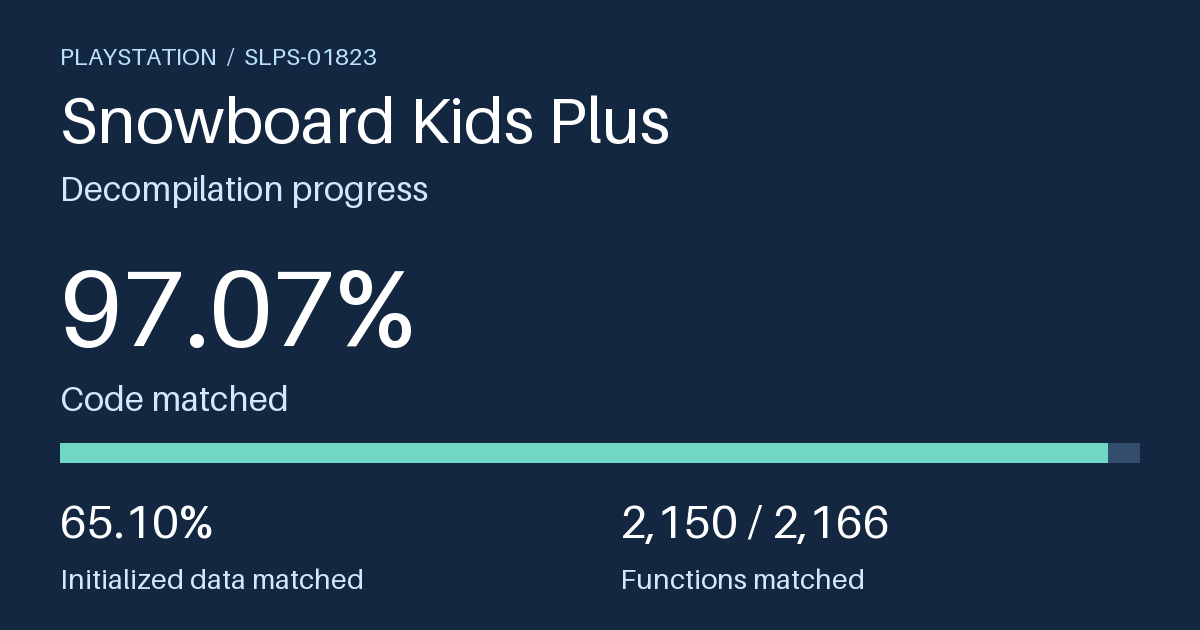
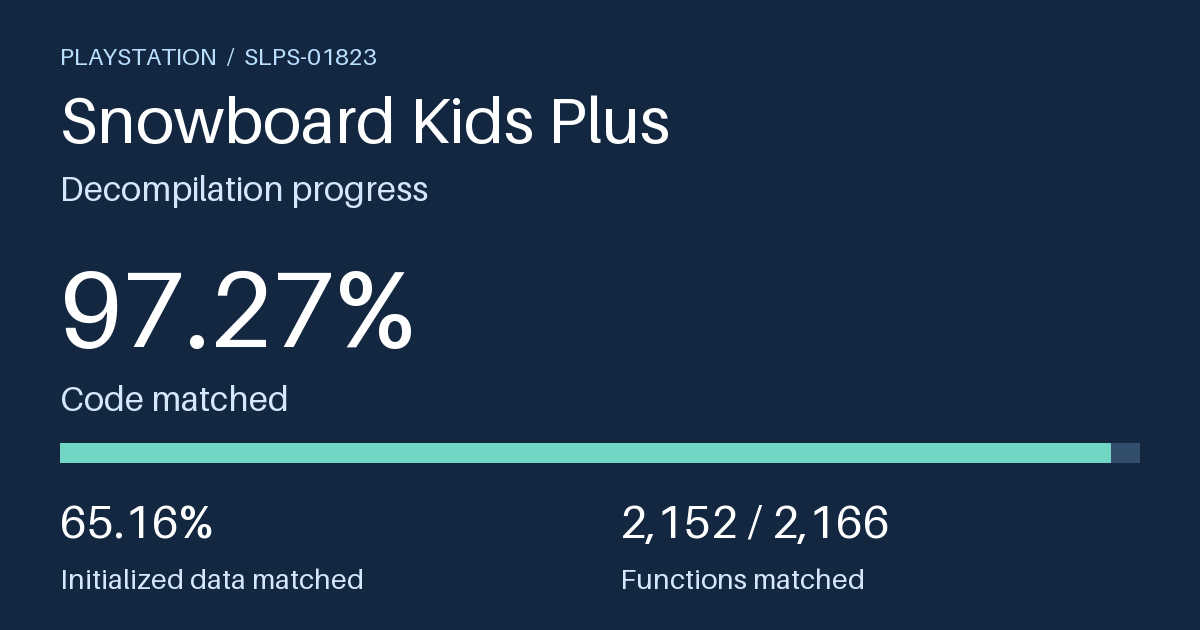
Update decompilation progress

diff --git a/docs/index.html b/docs/index.html
@@ -15,10 +15,10 @@
   <meta property="og:image:type" content="image/png">
   <meta property="og:image:width" content="1200">
   <meta property="og:image:height" content="630">
-  <meta property="og:image:alt" content="Snowboard Kids Plus decompilation: 97.07% code matched, 65.10% initialized data matched, and 2,150 of 2,166 functions matched.">
+  <meta property="og:image:alt" content="Snowboard Kids Plus decompilation: 97.27% code matched, 65.16% initialized data matched, and 2,152 of 2,166 functions matched.">
   <meta name="twitter:card" content="summary_large_image">
   <meta name="twitter:image" content="https://chrislewis.au/snowboardkidsplus-decomp/assets/progress-preview.png">
-  <meta name="twitter:image:alt" content="Snowboard Kids Plus decompilation: 97.07% code matched, 65.10% initialized data matched, and 2,150 of 2,166 functions matched.">
+  <meta name="twitter:image:alt" content="Snowboard Kids Plus decompilation: 97.27% code matched, 65.16% initialized data matched, and 2,152 of 2,166 functions matched.">
   <link rel="stylesheet" href="assets/progress.css">
   <script src="assets/progress.js" defer></script>
 </head>
@@ -41,21 +41,21 @@
     <section class="overview" aria-label="Verified build progress">
       <article class="metric">
         <h2>Code matched</h2>
-        <strong>97.07%</strong>
-        <meter min="0" max="802532" value="779052" aria-hidden="true"></meter>
-        <p>779,052 / 802,532 bytes · Game code 96.15%</p>
+        <strong>97.27%</strong>
+        <meter min="0" max="802532" value="780656" aria-hidden="true"></meter>
+        <p>780,656 / 802,532 bytes · Game code 96.41%</p>
       </article>
       <article class="metric">
         <h2>Initialized data</h2>
-        <strong>65.10%</strong>
-        <meter min="0" max="420772" value="273928" aria-hidden="true"></meter>
-        <p>273,928 / 420,772 bytes matched</p>
+        <strong>65.16%</strong>
+        <meter min="0" max="420772" value="274188" aria-hidden="true"></meter>
+        <p>274,188 / 420,772 bytes matched</p>
       </article>
       <article class="metric">
         <h2>Functions matched</h2>
-        <strong>99.26%</strong>
-        <meter min="0" max="2166" value="2150" aria-hidden="true"></meter>
-        <p>2,150 / 2,166 functions</p>
+        <strong>99.35%</strong>
+        <meter min="0" max="2166" value="2152" aria-hidden="true"></meter>
+        <p>2,152 / 2,166 functions</p>
       </article>
     </section>
     <section class="queue" id="functions" aria-labelledby="queue-title">
@@ -64,7 +64,7 @@
           <h2 id="queue-title">Remaining functions</h2>
           <p>Ranked by best recorded instruction match, then by lower complexity.</p>
         </div>
-        <p id="result-count" class="count" role="status">16 functions</p>
+        <p id="result-count" class="count" role="status">14 functions</p>
       </div>
       <div class="controls" hidden>
         <label>Search functions <input type="search" id="search" placeholder="Name, source file, or address"></label>
@@ -85,16 +85,14 @@
           <tr data-size="1248"><td class="rank">4</td><th scope="row"><code>func_8004E718</code><a class="unit" href="https://github.com/cdlewis/snowboardkidsplus-decomp/blob/main/src/graphics/course_rendering.c#L440">src/graphics/course_rendering.c</a></th><td class="address"><code>0x8004E718</code></td><td class="size">1,248</td><td class="score"><div class="match"><meter min="0" max="1" value="0.9903846153846154" aria-hidden="true"></meter><span><a href="https://github.com/cdlewis/snowboardkidsplus-decomp/blob/main/src/graphics/course_rendering.c#L440">99.04%</a></span></div></td></tr>
           <tr data-size="888"><td class="rank">5</td><th scope="row"><code>func_8004EBF8</code><a class="unit" href="https://github.com/cdlewis/snowboardkidsplus-decomp/blob/main/src/graphics/course_rendering.c#L507">src/graphics/course_rendering.c</a></th><td class="address"><code>0x8004EBF8</code></td><td class="size">888</td><td class="score"><div class="match"><meter min="0" max="1" value="0.9864864864864865" aria-hidden="true"></meter><span><a href="https://github.com/cdlewis/snowboardkidsplus-decomp/blob/main/src/graphics/course_rendering.c#L507">98.65%</a></span></div></td></tr>
           <tr data-size="2964"><td class="rank">6</td><th scope="row"><code>func_8006479C</code><a class="unit" href="https://github.com/cdlewis/snowboardkidsplus-decomp/blob/main/src/race/effects/player_effects.c#L1639">src/race/effects/player_effects.c</a></th><td class="address"><code>0x8006479C</code></td><td class="size">2,964</td><td class="score"><div class="match"><meter min="0" max="1" value="0.9770580296896086" aria-hidden="true"></meter><span><a href="https://github.com/cdlewis/snowboardkidsplus-decomp/blob/main/src/race/effects/player_effects.c#L1639">97.71%</a></span></div></td></tr>
-          <tr data-size="792"><td class="rank">7</td><th scope="row"><code>func_8006EF30</code><a class="unit" href="https://github.com/cdlewis/snowboardkidsplus-decomp/blob/main/src/graphics/sprite_draw.c#L1143">src/graphics/sprite_draw.c</a></th><td class="address"><code>0x8006EF30</code></td><td class="size">792</td><td class="score"><div class="match"><meter min="0" max="1" value="0.9646464646464646" aria-hidden="true"></meter><span><a href="https://github.com/cdlewis/snowboardkidsplus-decomp/blob/main/src/graphics/sprite_draw.c#L1143">96.46%</a></span></div></td></tr>
-          <tr data-size="920"><td class="rank">8</td><th scope="row"><code>func_8002EE0C</code><a class="unit" href="https://github.com/cdlewis/snowboardkidsplus-decomp/blob/main/src/race/player/player_actions.c#L1727">src/race/player/player_actions.c</a></th><td class="address"><code>0x8002EE0C</code></td><td class="size">920</td><td class="score"><div class="match"><meter min="0" max="1" value="0.9612068965517241" aria-hidden="true"></meter><span><a href="https://github.com/cdlewis/snowboardkidsplus-decomp/blob/main/src/race/player/player_actions.c#L1727">96.12%</a></span></div></td></tr>
-          <tr data-size="2684"><td class="rank">9</td><th scope="row"><code>func_80072C54</code><a class="unit" href="https://github.com/cdlewis/snowboardkidsplus-decomp/blob/main/src/menu/task_widgets.c#L1247">src/menu/task_widgets.c</a></th><td class="address"><code>0x80072C54</code></td><td class="size">2,684</td><td class="score"><div class="match"><meter min="0" max="1" value="0.9523099850968704" aria-hidden="true"></meter><span><a href="https://github.com/cdlewis/snowboardkidsplus-decomp/blob/main/src/menu/task_widgets.c#L1247">95.23%</a></span></div></td></tr>
-          <tr data-size="684"><td class="rank">10</td><th scope="row"><code>func_8006EC84</code><a class="unit" href="https://github.com/cdlewis/snowboardkidsplus-decomp/blob/main/src/graphics/sprite_draw.c#L1083">src/graphics/sprite_draw.c</a></th><td class="address"><code>0x8006EC84</code></td><td class="size">684</td><td class="score"><div class="match"><meter min="0" max="1" value="0.9239766081871345" aria-hidden="true"></meter><span><a href="https://github.com/cdlewis/snowboardkidsplus-decomp/blob/main/src/graphics/sprite_draw.c#L1083">92.40%</a></span></div></td></tr>
-          <tr data-size="1992"><td class="rank">11</td><th scope="row"><code>func_80066474</code><a class="unit" href="https://github.com/cdlewis/snowboardkidsplus-decomp/blob/main/src/race/effects/player_effects.c#L2248">src/race/effects/player_effects.c</a></th><td class="address"><code>0x80066474</code></td><td class="size">1,992</td><td class="score"><div class="match"><meter min="0" max="1" value="0.9196787148594378" aria-hidden="true"></meter><span><a href="https://github.com/cdlewis/snowboardkidsplus-decomp/blob/main/src/race/effects/player_effects.c#L2248">91.97%</a></span></div></td></tr>
-          <tr data-size="620"><td class="rank">12</td><th scope="row"><code>func_80014D60</code><a class="unit" href="https://github.com/cdlewis/snowboardkidsplus-decomp/blob/main/src/io/controller_input.c#L91">src/io/controller_input.c</a></th><td class="address"><code>0x80014D60</code></td><td class="size">620</td><td class="score"><div class="match"><meter min="0" max="1" value="0.9161290322580645" aria-hidden="true"></meter><span><a href="https://github.com/cdlewis/snowboardkidsplus-decomp/blob/main/src/io/controller_input.c#L91">91.61%</a></span></div></td></tr>
-          <tr data-size="1028"><td class="rank">13</td><th scope="row"><code>func_8007B48C</code><a class="unit" href="https://github.com/cdlewis/snowboardkidsplus-decomp/blob/main/src/menu/task_widgets.c#L3707">src/menu/task_widgets.c</a></th><td class="address"><code>0x8007B48C</code></td><td class="size">1,028</td><td class="score"><div class="match"><meter min="0" max="1" value="0.914396887159533" aria-hidden="true"></meter><span><a href="https://github.com/cdlewis/snowboardkidsplus-decomp/blob/main/src/menu/task_widgets.c#L3707">91.44%</a></span></div></td></tr>
-          <tr data-size="2044"><td class="rank">14</td><th scope="row"><code>func_80078140</code><a class="unit" href="https://github.com/cdlewis/snowboardkidsplus-decomp/blob/main/src/menu/task_widgets.c#L2906">src/menu/task_widgets.c</a></th><td class="address"><code>0x80078140</code></td><td class="size">2,044</td><td class="score"><div class="match"><meter min="0" max="1" value="0.9060665362035225" aria-hidden="true"></meter><span><a href="https://github.com/cdlewis/snowboardkidsplus-decomp/blob/main/src/menu/task_widgets.c#L2906">90.61%</a></span></div></td></tr>
-          <tr data-size="176"><td class="rank">15</td><th scope="row"><code>func_80071300</code><a class="unit" href="https://github.com/cdlewis/snowboardkidsplus-decomp/blob/main/src/menu/task_widgets.c#L713">src/menu/task_widgets.c</a></th><td class="address"><code>0x80071300</code></td><td class="size">176</td><td class="score"><div class="match"><meter min="0" max="1" value="0.8863636363636364" aria-hidden="true"></meter><span><a href="https://github.com/cdlewis/snowboardkidsplus-decomp/blob/main/src/menu/task_widgets.c#L713">88.64%</a></span></div></td></tr>
-          <tr data-size="1560"><td class="rank">16</td><th scope="row"><code>func_80083C3C</code><a class="unit" href="https://github.com/cdlewis/snowboardkidsplus-decomp/blob/main/src/menu/course_selection_tasks.c#L2322">src/menu/course_selection_tasks.c</a></th><td class="address"><code>0x80083C3C</code></td><td class="size">1,560</td><td class="score"><div class="match"><meter min="0" max="1" value="0.7717948717948718" aria-hidden="true"></meter><span><a href="https://github.com/cdlewis/snowboardkidsplus-decomp/blob/main/src/menu/course_selection_tasks.c#L2322">77.18%</a></span></div></td></tr>
+          <tr data-size="792"><td class="rank">7</td><th scope="row"><code>func_8006EF30</code><a class="unit" href="https://github.com/cdlewis/snowboardkidsplus-decomp/blob/main/src/graphics/sprite_draw.c#L1156">src/graphics/sprite_draw.c</a></th><td class="address"><code>0x8006EF30</code></td><td class="size">792</td><td class="score"><div class="match"><meter min="0" max="1" value="0.9646464646464646" aria-hidden="true"></meter><span><a href="https://github.com/cdlewis/snowboardkidsplus-decomp/blob/main/src/graphics/sprite_draw.c#L1156">96.46%</a></span></div></td></tr>
+          <tr data-size="2684"><td class="rank">8</td><th scope="row"><code>func_80072C54</code><a class="unit" href="https://github.com/cdlewis/snowboardkidsplus-decomp/blob/main/src/menu/task_widgets.c#L1247">src/menu/task_widgets.c</a></th><td class="address"><code>0x80072C54</code></td><td class="size">2,684</td><td class="score"><div class="match"><meter min="0" max="1" value="0.9523099850968704" aria-hidden="true"></meter><span><a href="https://github.com/cdlewis/snowboardkidsplus-decomp/blob/main/src/menu/task_widgets.c#L1247">95.23%</a></span></div></td></tr>
+          <tr data-size="1992"><td class="rank">9</td><th scope="row"><code>func_80066474</code><a class="unit" href="https://github.com/cdlewis/snowboardkidsplus-decomp/blob/main/src/race/effects/player_effects.c#L2248">src/race/effects/player_effects.c</a></th><td class="address"><code>0x80066474</code></td><td class="size">1,992</td><td class="score"><div class="match"><meter min="0" max="1" value="0.9196787148594378" aria-hidden="true"></meter><span><a href="https://github.com/cdlewis/snowboardkidsplus-decomp/blob/main/src/race/effects/player_effects.c#L2248">91.97%</a></span></div></td></tr>
+          <tr data-size="620"><td class="rank">10</td><th scope="row"><code>func_80014D60</code><a class="unit" href="https://github.com/cdlewis/snowboardkidsplus-decomp/blob/main/src/io/controller_input.c#L91">src/io/controller_input.c</a></th><td class="address"><code>0x80014D60</code></td><td class="size">620</td><td class="score"><div class="match"><meter min="0" max="1" value="0.9161290322580645" aria-hidden="true"></meter><span><a href="https://github.com/cdlewis/snowboardkidsplus-decomp/blob/main/src/io/controller_input.c#L91">91.61%</a></span></div></td></tr>
+          <tr data-size="1028"><td class="rank">11</td><th scope="row"><code>func_8007B48C</code><a class="unit" href="https://github.com/cdlewis/snowboardkidsplus-decomp/blob/main/src/menu/task_widgets.c#L3707">src/menu/task_widgets.c</a></th><td class="address"><code>0x8007B48C</code></td><td class="size">1,028</td><td class="score"><div class="match"><meter min="0" max="1" value="0.914396887159533" aria-hidden="true"></meter><span><a href="https://github.com/cdlewis/snowboardkidsplus-decomp/blob/main/src/menu/task_widgets.c#L3707">91.44%</a></span></div></td></tr>
+          <tr data-size="2044"><td class="rank">12</td><th scope="row"><code>func_80078140</code><a class="unit" href="https://github.com/cdlewis/snowboardkidsplus-decomp/blob/main/src/menu/task_widgets.c#L2906">src/menu/task_widgets.c</a></th><td class="address"><code>0x80078140</code></td><td class="size">2,044</td><td class="score"><div class="match"><meter min="0" max="1" value="0.9060665362035225" aria-hidden="true"></meter><span><a href="https://github.com/cdlewis/snowboardkidsplus-decomp/blob/main/src/menu/task_widgets.c#L2906">90.61%</a></span></div></td></tr>
+          <tr data-size="176"><td class="rank">13</td><th scope="row"><code>func_80071300</code><a class="unit" href="https://github.com/cdlewis/snowboardkidsplus-decomp/blob/main/src/menu/task_widgets.c#L713">src/menu/task_widgets.c</a></th><td class="address"><code>0x80071300</code></td><td class="size">176</td><td class="score"><div class="match"><meter min="0" max="1" value="0.8863636363636364" aria-hidden="true"></meter><span><a href="https://github.com/cdlewis/snowboardkidsplus-decomp/blob/main/src/menu/task_widgets.c#L713">88.64%</a></span></div></td></tr>
+          <tr data-size="1560"><td class="rank">14</td><th scope="row"><code>func_80083C3C</code><a class="unit" href="https://github.com/cdlewis/snowboardkidsplus-decomp/blob/main/src/menu/course_selection_tasks.c#L2322">src/menu/course_selection_tasks.c</a></th><td class="address"><code>0x80083C3C</code></td><td class="size">1,560</td><td class="score"><div class="match"><meter min="0" max="1" value="0.7717948717948718" aria-hidden="true"></meter><span><a href="https://github.com/cdlewis/snowboardkidsplus-decomp/blob/main/src/menu/course_selection_tasks.c#L2322">77.18%</a></span></div></td></tr>
           </tbody>
         </table>
       </div>

diff --git a/README.md b/README.md
@@ -1,7 +1,7 @@
 Snowboard Kids Plus  
 [![Build](https://github.com/cdlewis/snowboardkidsplus-decomp/actions/workflows/build.yaml/badge.svg?branch=main)](https://github.com/cdlewis/snowboardkidsplus-decomp/actions/workflows/build.yaml?query=branch%3Amain)
-[![Code](https://img.shields.io/badge/Code-97.07%25-blue)](#building)
-[![Data](https://img.shields.io/badge/Data-65.10%25-blue)](#building)
+[![Code](https://img.shields.io/badge/Code-97.27%25-blue)](#building)
+[![Data](https://img.shields.io/badge/Data-65.16%25-blue)](#building)
 [![Chat](https://img.shields.io/discord/729856662357278750?color=%237289DA&logo=discord&logoColor=%23FFFFFF)](https://discord.gg/PJzG4F8SpF)
 ===================
 
